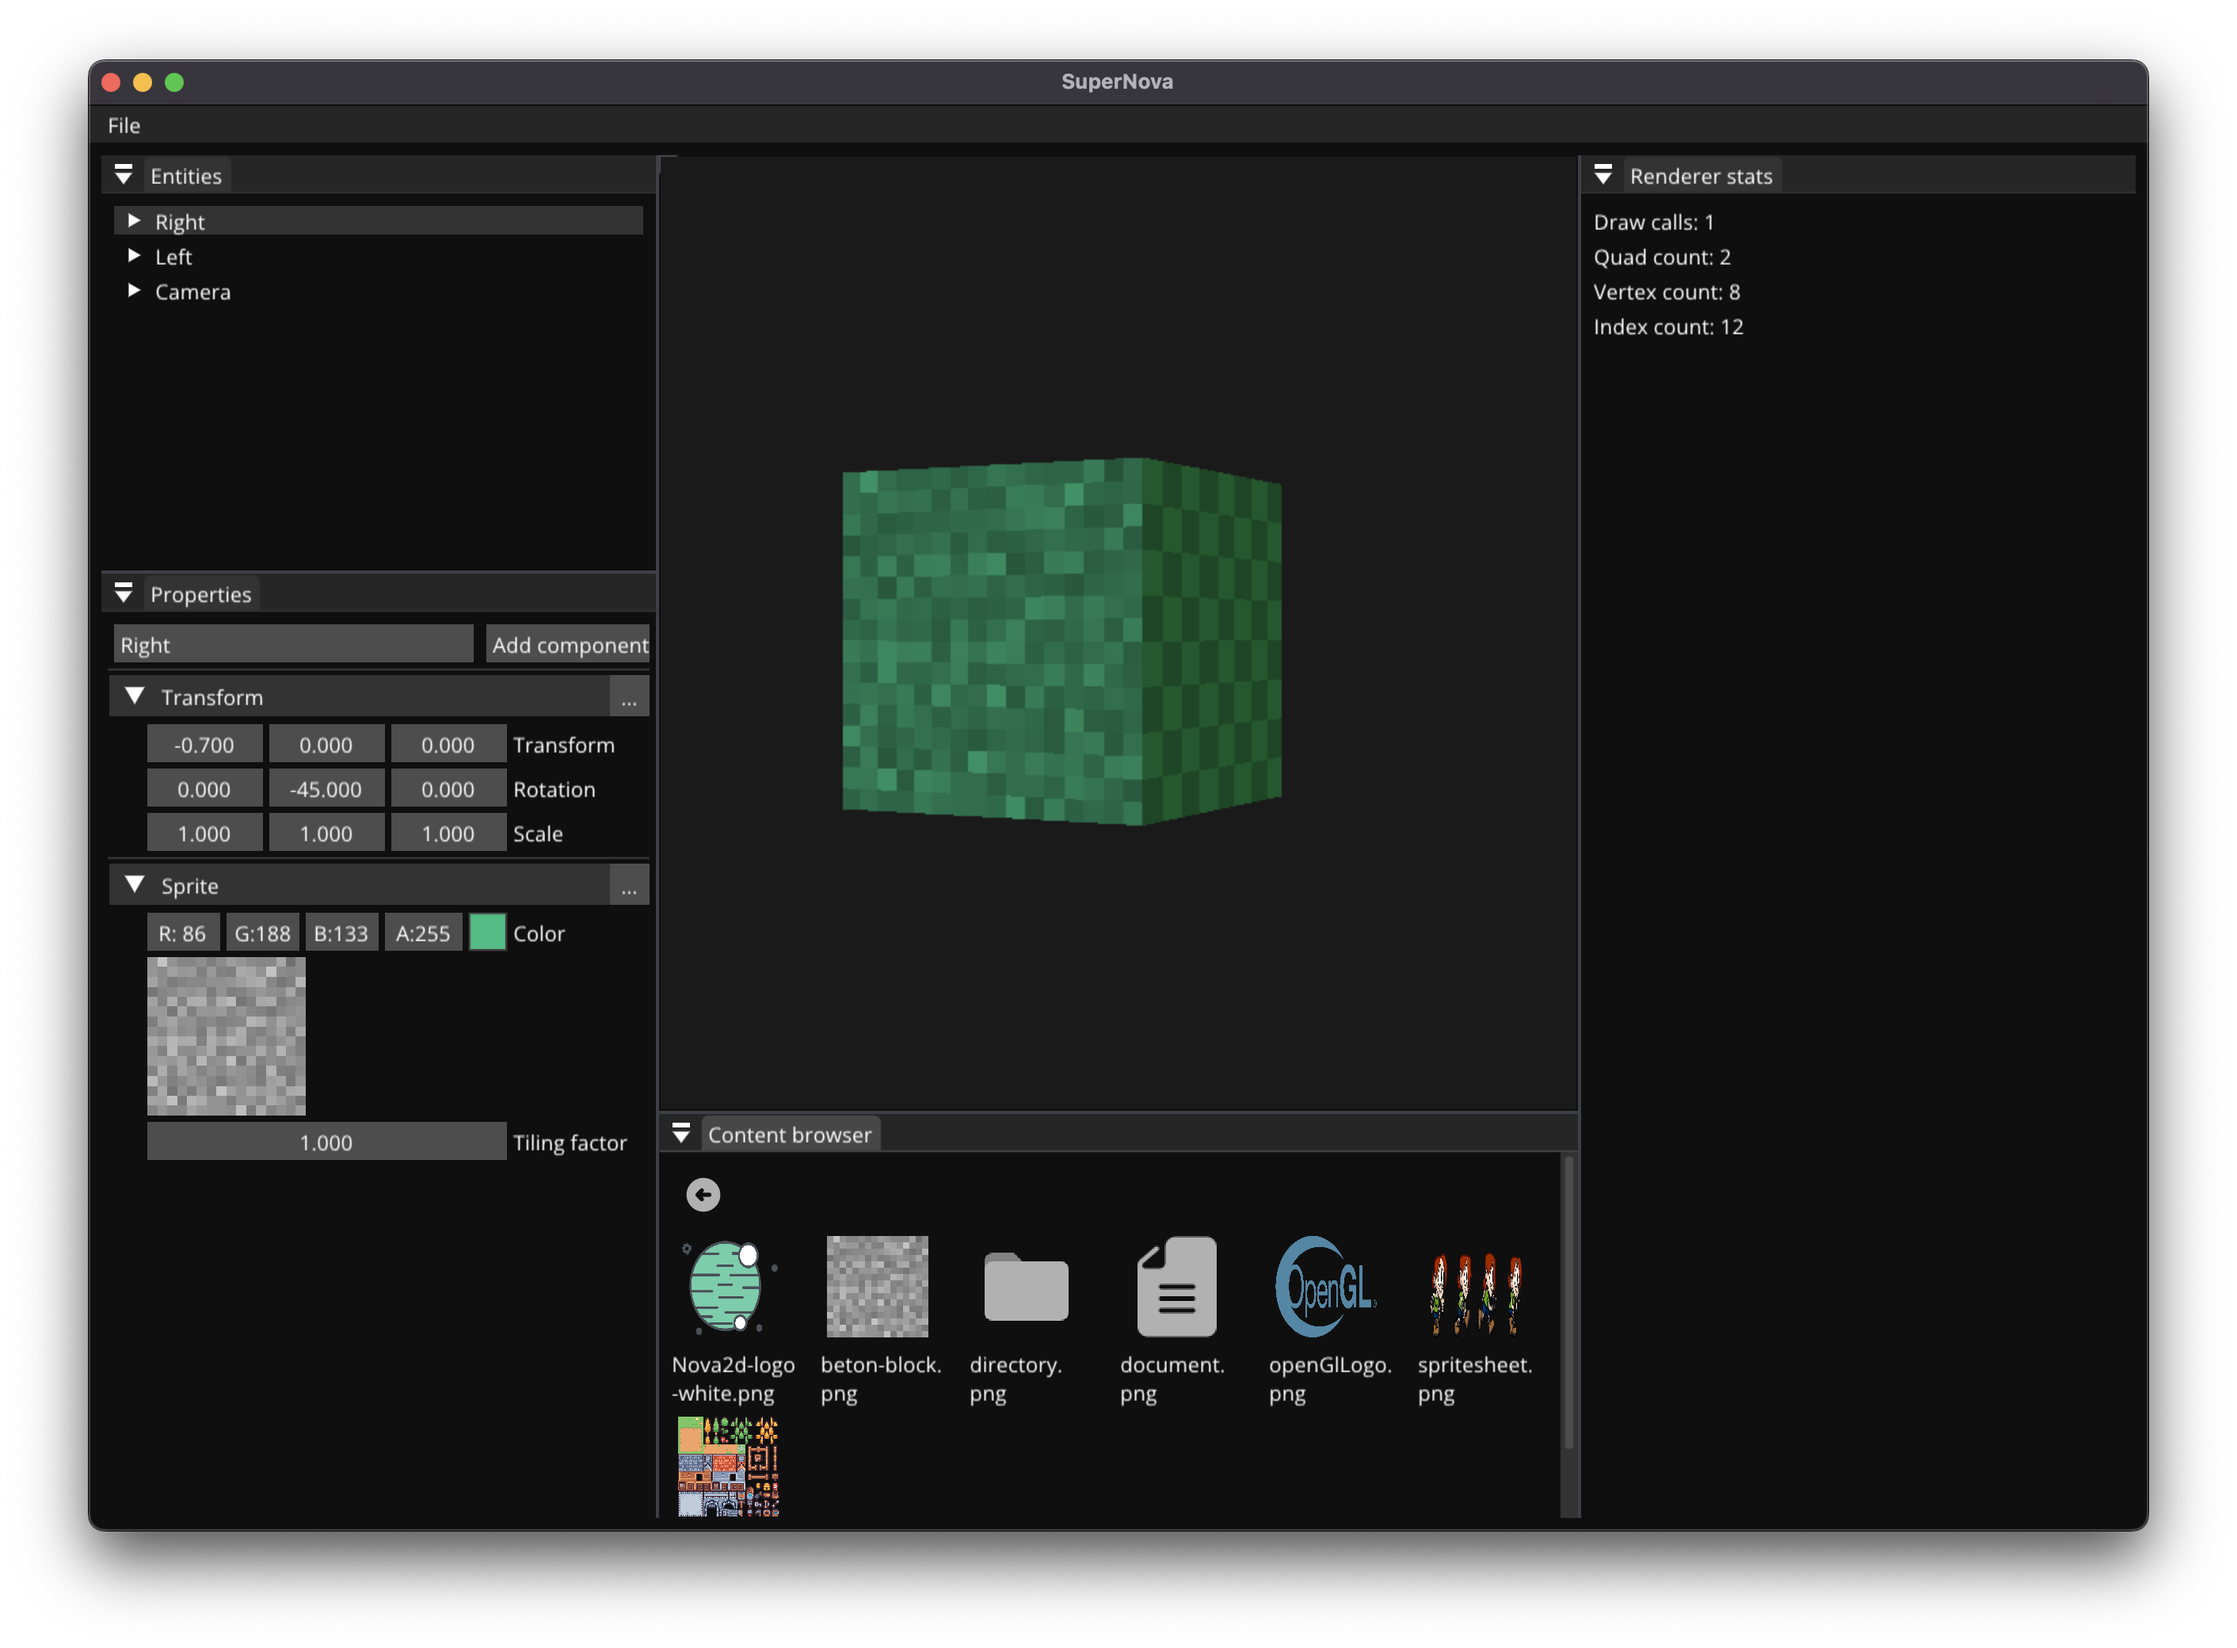
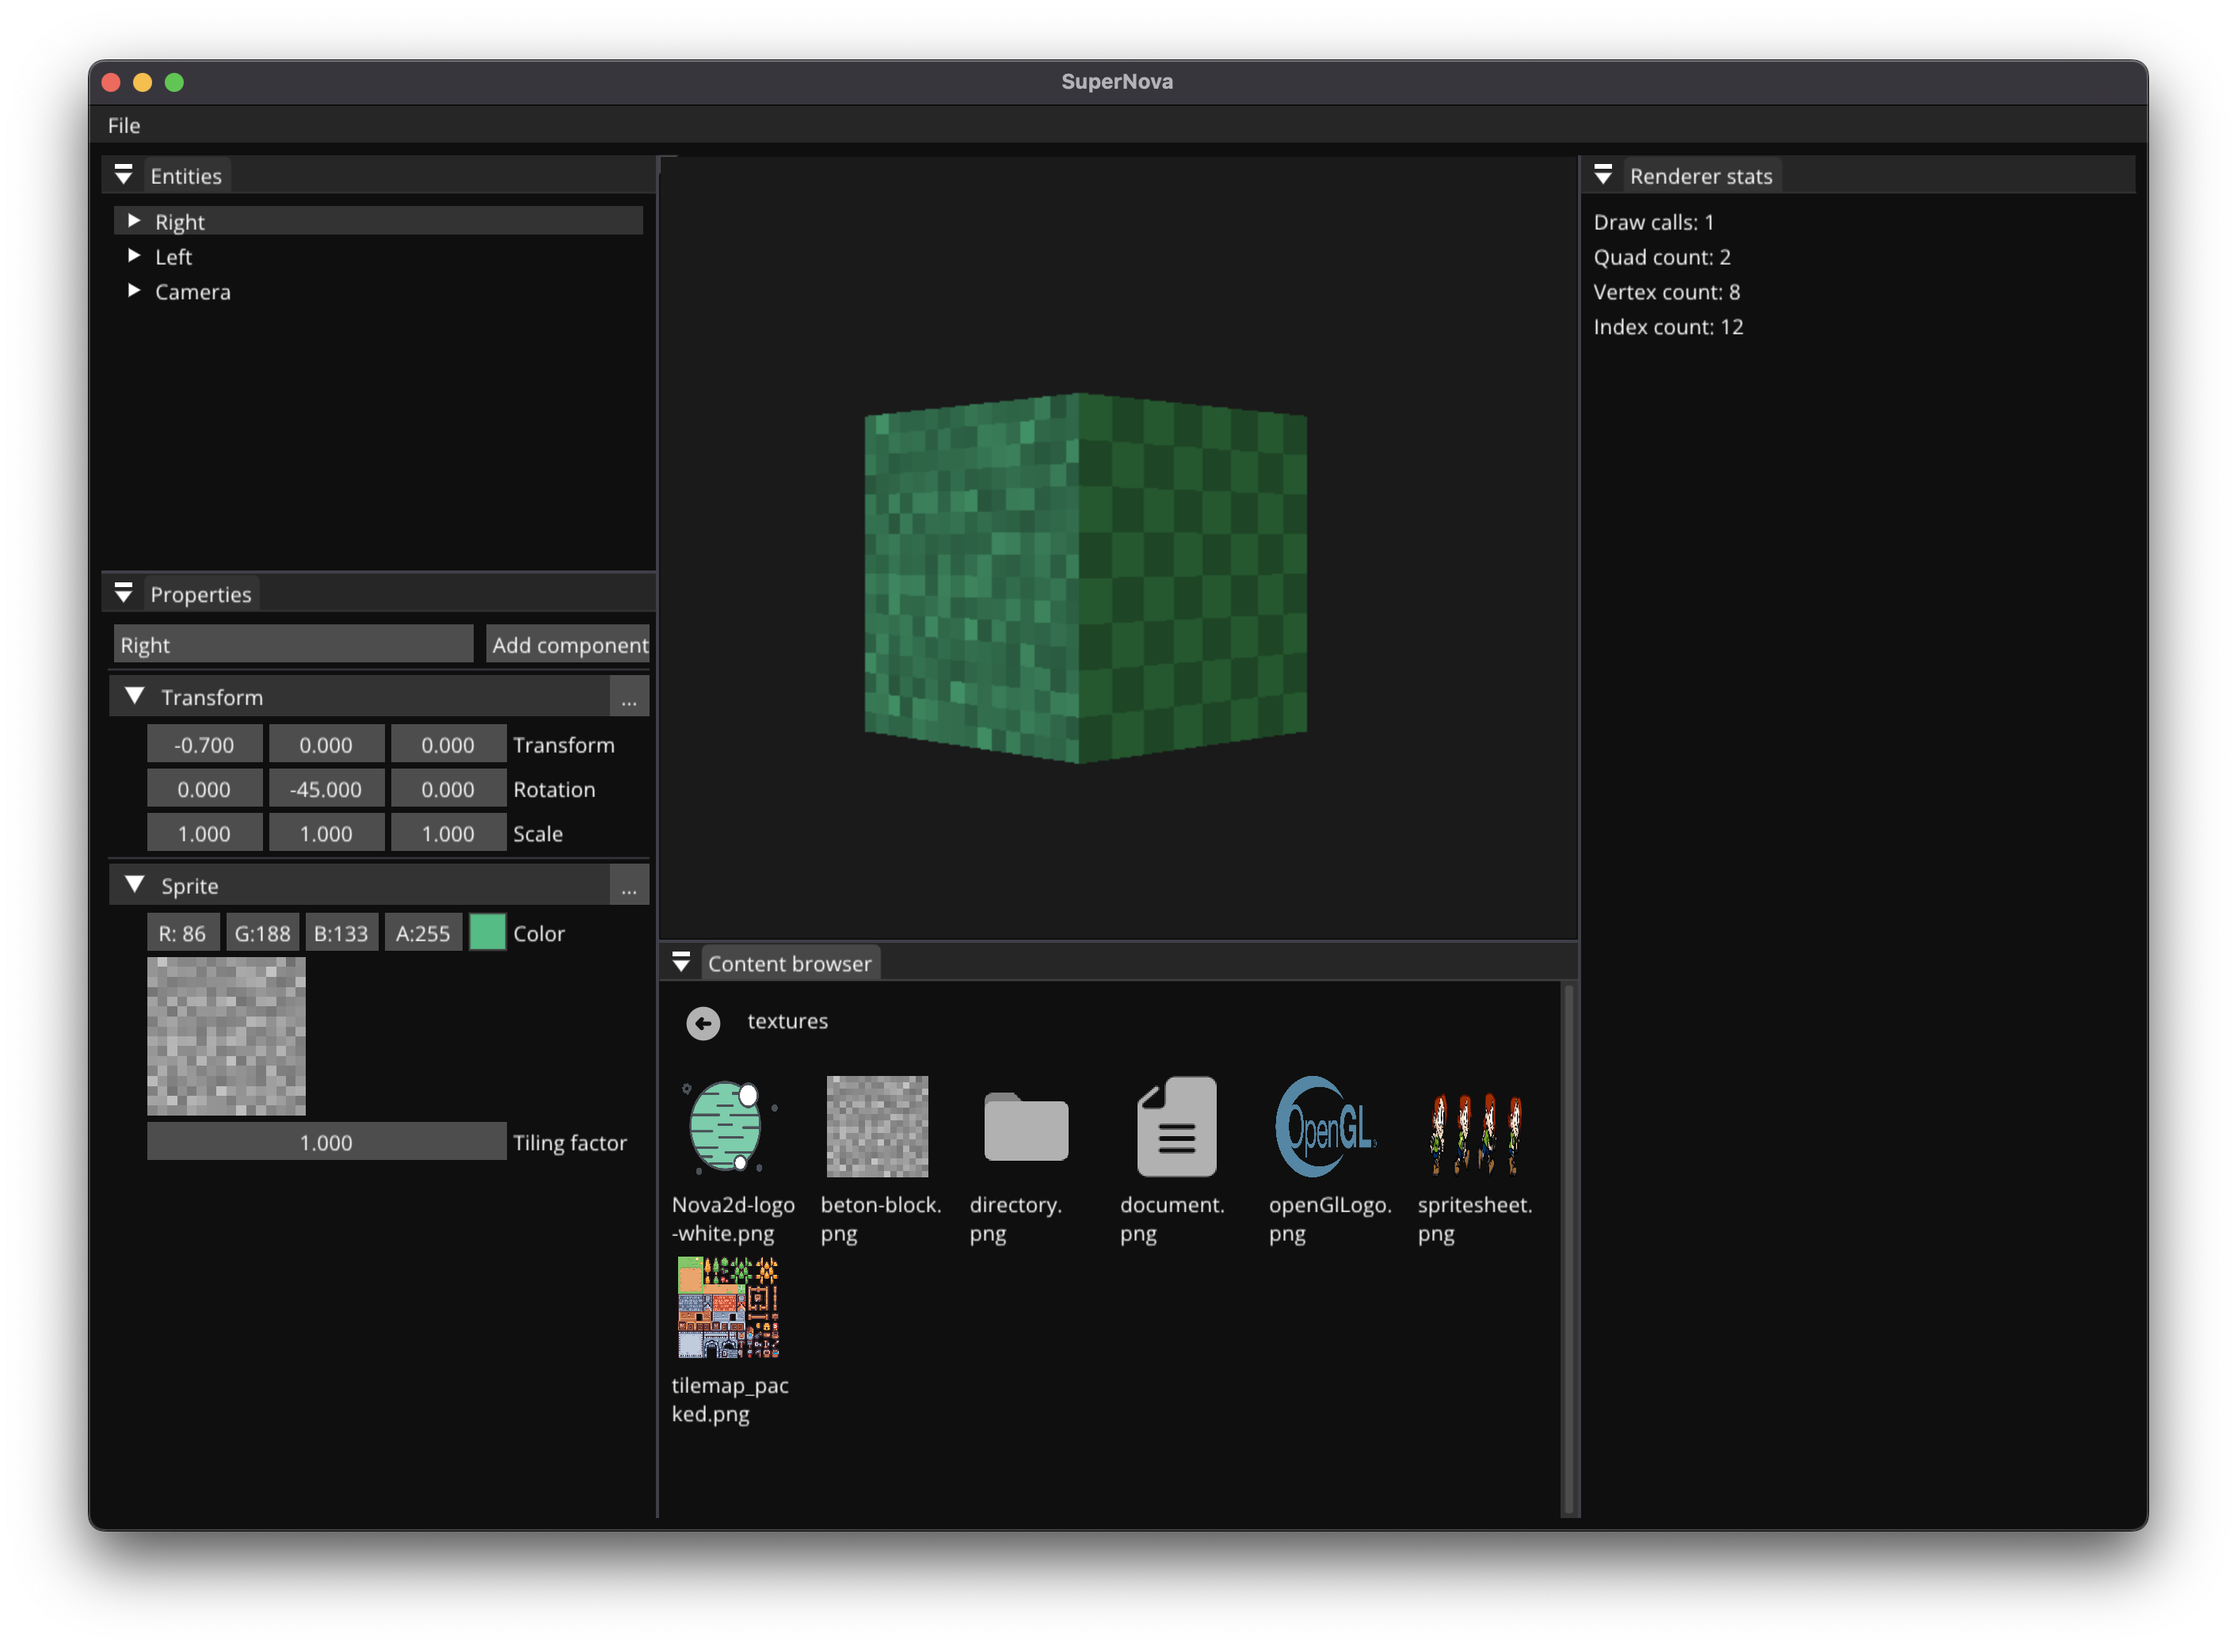
feat: add directory name to content browser and update readme screenshot

Changed region(s): [[0.2805, 0.5938, 0.7167, 0.9375], [0.3739, 0.2188, 0.5921, 0.5], [0.3116, 0.5625, 0.4051, 0.625]]

diff --git a/SuperNova/src/main/java/panels/ContentBrowserPanel.java b/SuperNova/src/main/java/panels/ContentBrowserPanel.java
@@ -1,6 +1,7 @@
 package panels;
 
 import imgui.ImGui;
+import imgui.ImVec2;
 import imgui.flag.ImGuiCol;
 import imgui.flag.ImGuiMouseButton;
 import imgui.flag.ImGuiStyleVar;
@@ -56,10 +57,17 @@ public class ContentBrowserPanel {
         boolean isRoot = currentDirectory.getAbsolutePath().equals(resourceRootDirectory);
 
         ImGui.pushStyleColor(ImGuiCol.Button, 0, 0, 0, 0);
-        boolean isReturnClicked = ImGui.imageButton(returnIconTexture.getId(), 32.0f, 32.0f, 0, 1, 1, 0);
+        var returnIconSize = 32.0f;
+        boolean isReturnClicked = ImGui.imageButton(returnIconTexture.getId(), returnIconSize, returnIconSize, 0, 1, 1, 0);
         ImGui.popStyleColor();
 
-        if (!isRoot && ImGui.isItemHovered() && isReturnClicked) {
+        ImGui.sameLine();
+        var textSize = new ImVec2();
+        ImGui.calcTextSize(textSize, currentDirectory.getName());
+        ImGui.setCursorPosY(ImGui.getCursorPosY() + (returnIconSize / 2.0f) - (textSize.y / 2.0f));
+        ImGui.text(currentDirectory.getName());
+
+        if (!isRoot && isReturnClicked) {
             currentDirectory = currentDirectory.getParentFile();
         }
         if (validCacheTimeout != 0 && directoryContentCache.containsKey(currentDirectory)) {
